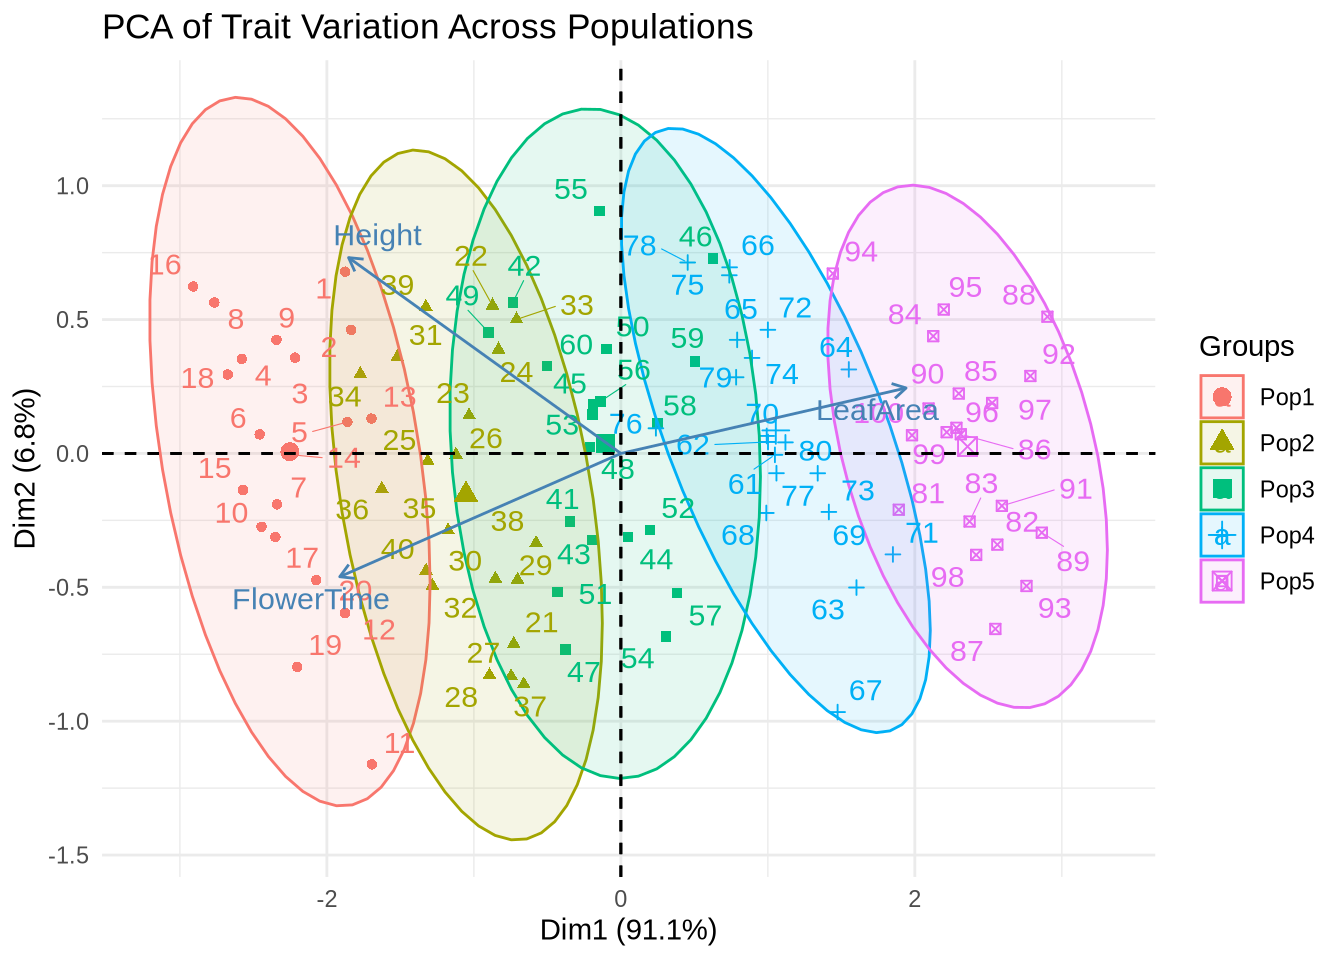
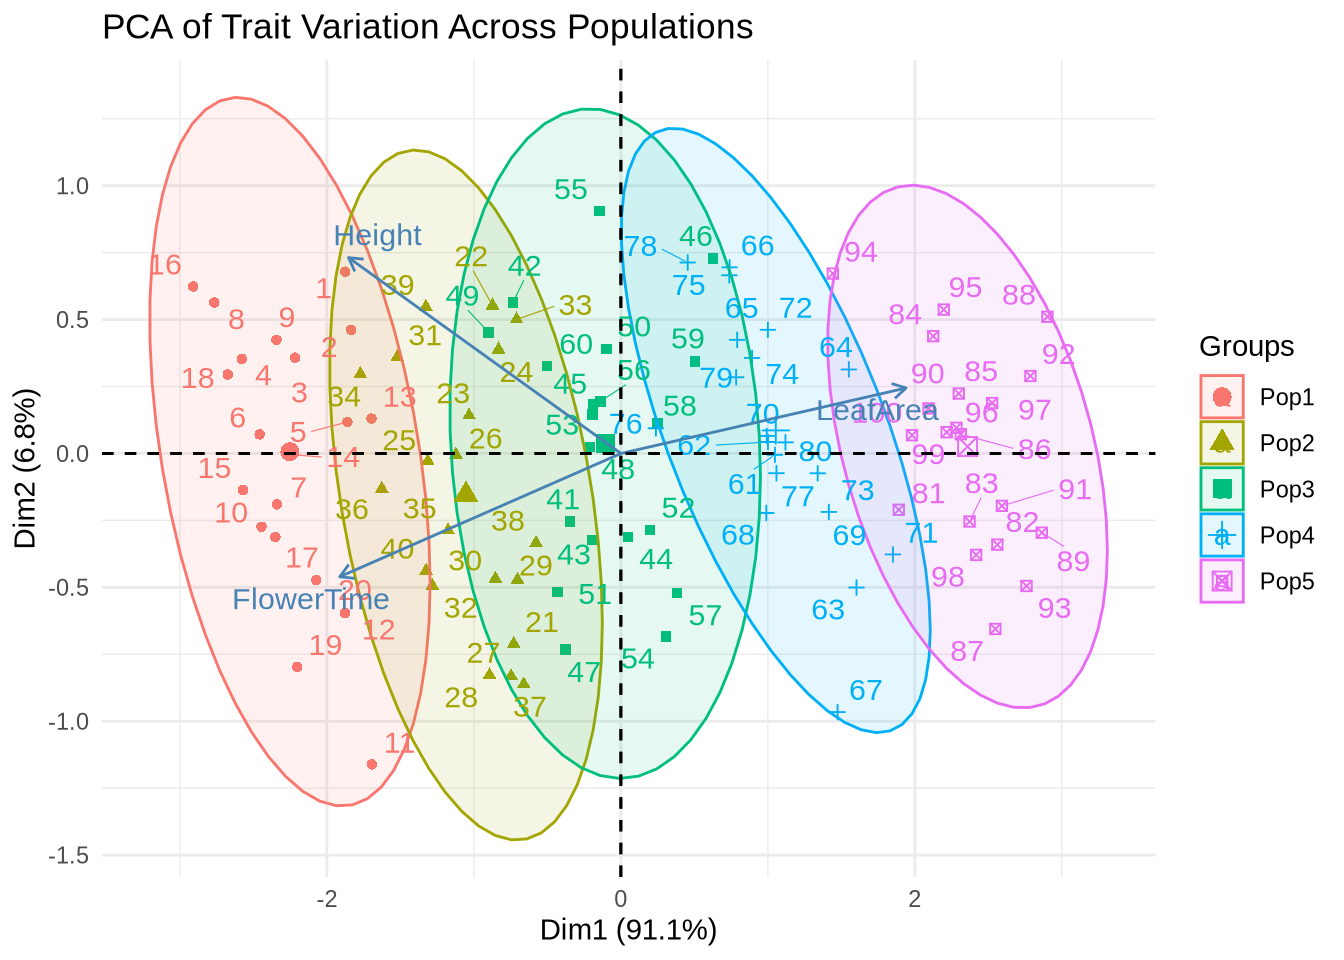
Built site for gh-pages

diff --git a/workshops/multivariate_workshop_2.html b/workshops/multivariate_workshop_2.html
@@ -332,6 +332,22 @@ gtag('config', 'G-0LPGXESG7T', { 'anonymize_ip': true});
 <span id="cb2-54"><a href="#cb2-54" aria-hidden="true" tabindex="-1"></a>dat <span class="ot">&lt;-</span> <span class="fu">data.frame</span>(<span class="at">ID =</span> <span class="dv">1</span><span class="sc">:</span><span class="dv">100</span>, <span class="at">Pop =</span> pop, coords, clim, traits)</span>
 <span id="cb2-55"><a href="#cb2-55" aria-hidden="true" tabindex="-1"></a><span class="fu">head</span>(dat)</span></code></pre></div><button title="Copy to Clipboard" class="code-copy-button"><i class="bi"></i></button></div>
 </details>
+<div class="cell-output cell-output-stdout">
+<pre><code>  ID  Pop      Lat      Lon     Temp      Prec      Elev   Season LeafArea
+1  1 Pop1 44.94395 7.928959 49.32908 -1454.350  92.92412 7.870637 62.78536
+2  2 Pop1 44.97698 8.025688 49.00425 -1456.376  74.32520 7.713426 61.94990
+3  3 Pop1 45.15587 7.975331 48.53423 -1467.179 102.89212 8.703525 61.77233
+4  4 Pop1 45.00705 7.965246 48.72362 -1460.878 100.12825 8.561629 60.93331
+5  5 Pop1 45.01293 7.904838 48.34590 -1455.018 114.70680 7.407352 62.03195
+6  6 Pop1 45.17151 7.995497 48.46386 -1455.264  84.13972 8.150625 61.50451
+  FlowerTime   Height
+1   3.564334 50.23310
+2   2.989375 49.61436
+3   5.240048 50.03555
+4   6.073493 50.51090
+5   4.557430 49.00802
+6   7.283285 49.85184</code></pre>
+</div>
 </div>
 </section>
 <section id="pca-on-trait-data" class="level2">
@@ -342,16 +358,16 @@ such as morphological traits or environmental variables.</p>
 <div class="cell">
 <details class="code-fold">
 <summary>Code</summary>
-<div class="code-copy-outer-scaffold"><div class="sourceCode cell-code" id="cb3"><pre class="sourceCode r code-with-copy"><code class="sourceCode r"><span id="cb3-1"><a href="#cb3-1" aria-hidden="true" tabindex="-1"></a>trait_pca <span class="ot">&lt;-</span> <span class="fu">prcomp</span>(dat[, <span class="fu">c</span>(<span class="st">"LeafArea"</span>, <span class="st">"FlowerTime"</span>, <span class="st">"Height"</span>)], <span class="at">scale. =</span> <span class="cn">TRUE</span>)</span>
-<span id="cb3-2"><a href="#cb3-2" aria-hidden="true" tabindex="-1"></a></span>
-<span id="cb3-3"><a href="#cb3-3" aria-hidden="true" tabindex="-1"></a><span class="fu">fviz_pca_biplot</span>(</span>
-<span id="cb3-4"><a href="#cb3-4" aria-hidden="true" tabindex="-1"></a>  trait_pca,</span>
-<span id="cb3-5"><a href="#cb3-5" aria-hidden="true" tabindex="-1"></a>  <span class="at">habillage =</span> dat<span class="sc">$</span>Pop,</span>
-<span id="cb3-6"><a href="#cb3-6" aria-hidden="true" tabindex="-1"></a>  <span class="at">addEllipses =</span> <span class="cn">TRUE</span>,</span>
-<span id="cb3-7"><a href="#cb3-7" aria-hidden="true" tabindex="-1"></a>  <span class="at">repel =</span> <span class="cn">TRUE</span>,</span>
-<span id="cb3-8"><a href="#cb3-8" aria-hidden="true" tabindex="-1"></a>  <span class="at">title =</span> <span class="st">"PCA of Trait Variation Across Populations"</span></span>
-<span id="cb3-9"><a href="#cb3-9" aria-hidden="true" tabindex="-1"></a>) <span class="sc">+</span></span>
-<span id="cb3-10"><a href="#cb3-10" aria-hidden="true" tabindex="-1"></a>  <span class="fu">theme_minimal</span>()</span></code></pre></div><button title="Copy to Clipboard" class="code-copy-button"><i class="bi"></i></button></div>
+<div class="code-copy-outer-scaffold"><div class="sourceCode cell-code" id="cb4"><pre class="sourceCode r code-with-copy"><code class="sourceCode r"><span id="cb4-1"><a href="#cb4-1" aria-hidden="true" tabindex="-1"></a>trait_pca <span class="ot">&lt;-</span> <span class="fu">prcomp</span>(dat[, <span class="fu">c</span>(<span class="st">"LeafArea"</span>, <span class="st">"FlowerTime"</span>, <span class="st">"Height"</span>)], <span class="at">scale. =</span> <span class="cn">TRUE</span>)</span>
+<span id="cb4-2"><a href="#cb4-2" aria-hidden="true" tabindex="-1"></a></span>
+<span id="cb4-3"><a href="#cb4-3" aria-hidden="true" tabindex="-1"></a><span class="fu">fviz_pca_biplot</span>(</span>
+<span id="cb4-4"><a href="#cb4-4" aria-hidden="true" tabindex="-1"></a>  trait_pca,</span>
+<span id="cb4-5"><a href="#cb4-5" aria-hidden="true" tabindex="-1"></a>  <span class="at">habillage =</span> dat<span class="sc">$</span>Pop,</span>
+<span id="cb4-6"><a href="#cb4-6" aria-hidden="true" tabindex="-1"></a>  <span class="at">addEllipses =</span> <span class="cn">TRUE</span>,</span>
+<span id="cb4-7"><a href="#cb4-7" aria-hidden="true" tabindex="-1"></a>  <span class="at">repel =</span> <span class="cn">TRUE</span>,</span>
+<span id="cb4-8"><a href="#cb4-8" aria-hidden="true" tabindex="-1"></a>  <span class="at">title =</span> <span class="st">"PCA of Trait Variation Across Populations"</span></span>
+<span id="cb4-9"><a href="#cb4-9" aria-hidden="true" tabindex="-1"></a>) <span class="sc">+</span></span>
+<span id="cb4-10"><a href="#cb4-10" aria-hidden="true" tabindex="-1"></a>  <span class="fu">theme_minimal</span>()</span></code></pre></div><button title="Copy to Clipboard" class="code-copy-button"><i class="bi"></i></button></div>
 </details>
 <div class="cell-output-display">
 <div>
@@ -385,18 +401,18 @@ such as genetic data (allele frequencies, SNPs, or F_ST matrices).</p>
 <div class="cell">
 <details class="code-fold">
 <summary>Code</summary>
-<div class="code-copy-outer-scaffold"><div class="sourceCode cell-code" id="cb4"><pre class="sourceCode r code-with-copy"><code class="sourceCode r"><span id="cb4-1"><a href="#cb4-1" aria-hidden="true" tabindex="-1"></a><span class="co"># Euclidean distance on scaled genotypes</span></span>
-<span id="cb4-2"><a href="#cb4-2" aria-hidden="true" tabindex="-1"></a>gen_dist <span class="ot">&lt;-</span> <span class="fu">dist</span>(<span class="fu">scale</span>(geno))</span>
-<span id="cb4-3"><a href="#cb4-3" aria-hidden="true" tabindex="-1"></a>pcoa_res <span class="ot">&lt;-</span> <span class="fu">cmdscale</span>(gen_dist, <span class="at">k =</span> <span class="dv">2</span>, <span class="at">eig =</span> <span class="cn">TRUE</span>)</span>
-<span id="cb4-4"><a href="#cb4-4" aria-hidden="true" tabindex="-1"></a></span>
-<span id="cb4-5"><a href="#cb4-5" aria-hidden="true" tabindex="-1"></a>pcoa_df <span class="ot">&lt;-</span> <span class="fu">as.data.frame</span>(pcoa_res<span class="sc">$</span>points)</span>
-<span id="cb4-6"><a href="#cb4-6" aria-hidden="true" tabindex="-1"></a><span class="fu">colnames</span>(pcoa_df) <span class="ot">&lt;-</span> <span class="fu">c</span>(<span class="st">"PCoA1"</span>, <span class="st">"PCoA2"</span>)</span>
-<span id="cb4-7"><a href="#cb4-7" aria-hidden="true" tabindex="-1"></a>pcoa_df<span class="sc">$</span>Pop <span class="ot">&lt;-</span> dat<span class="sc">$</span>Pop</span>
-<span id="cb4-8"><a href="#cb4-8" aria-hidden="true" tabindex="-1"></a></span>
-<span id="cb4-9"><a href="#cb4-9" aria-hidden="true" tabindex="-1"></a><span class="fu">ggplot</span>(pcoa_df, <span class="fu">aes</span>(PCoA1, PCoA2, <span class="at">color =</span> Pop)) <span class="sc">+</span></span>
-<span id="cb4-10"><a href="#cb4-10" aria-hidden="true" tabindex="-1"></a>  <span class="fu">geom_point</span>(<span class="at">size =</span> <span class="dv">3</span>) <span class="sc">+</span></span>
-<span id="cb4-11"><a href="#cb4-11" aria-hidden="true" tabindex="-1"></a>  <span class="fu">theme_minimal</span>() <span class="sc">+</span></span>
-<span id="cb4-12"><a href="#cb4-12" aria-hidden="true" tabindex="-1"></a>  <span class="fu">labs</span>(<span class="at">title =</span> <span class="st">"PCoA on Genetic Data"</span>)</span></code></pre></div><button title="Copy to Clipboard" class="code-copy-button"><i class="bi"></i></button></div>
+<div class="code-copy-outer-scaffold"><div class="sourceCode cell-code" id="cb5"><pre class="sourceCode r code-with-copy"><code class="sourceCode r"><span id="cb5-1"><a href="#cb5-1" aria-hidden="true" tabindex="-1"></a><span class="co"># Euclidean distance on scaled genotypes</span></span>
+<span id="cb5-2"><a href="#cb5-2" aria-hidden="true" tabindex="-1"></a>gen_dist <span class="ot">&lt;-</span> <span class="fu">dist</span>(<span class="fu">scale</span>(geno))</span>
+<span id="cb5-3"><a href="#cb5-3" aria-hidden="true" tabindex="-1"></a>pcoa_res <span class="ot">&lt;-</span> <span class="fu">cmdscale</span>(gen_dist, <span class="at">k =</span> <span class="dv">2</span>, <span class="at">eig =</span> <span class="cn">TRUE</span>)</span>
+<span id="cb5-4"><a href="#cb5-4" aria-hidden="true" tabindex="-1"></a></span>
+<span id="cb5-5"><a href="#cb5-5" aria-hidden="true" tabindex="-1"></a>pcoa_df <span class="ot">&lt;-</span> <span class="fu">as.data.frame</span>(pcoa_res<span class="sc">$</span>points)</span>
+<span id="cb5-6"><a href="#cb5-6" aria-hidden="true" tabindex="-1"></a><span class="fu">colnames</span>(pcoa_df) <span class="ot">&lt;-</span> <span class="fu">c</span>(<span class="st">"PCoA1"</span>, <span class="st">"PCoA2"</span>)</span>
+<span id="cb5-7"><a href="#cb5-7" aria-hidden="true" tabindex="-1"></a>pcoa_df<span class="sc">$</span>Pop <span class="ot">&lt;-</span> dat<span class="sc">$</span>Pop</span>
+<span id="cb5-8"><a href="#cb5-8" aria-hidden="true" tabindex="-1"></a></span>
+<span id="cb5-9"><a href="#cb5-9" aria-hidden="true" tabindex="-1"></a><span class="fu">ggplot</span>(pcoa_df, <span class="fu">aes</span>(PCoA1, PCoA2, <span class="at">color =</span> Pop)) <span class="sc">+</span></span>
+<span id="cb5-10"><a href="#cb5-10" aria-hidden="true" tabindex="-1"></a>  <span class="fu">geom_point</span>(<span class="at">size =</span> <span class="dv">3</span>) <span class="sc">+</span></span>
+<span id="cb5-11"><a href="#cb5-11" aria-hidden="true" tabindex="-1"></a>  <span class="fu">theme_minimal</span>() <span class="sc">+</span></span>
+<span id="cb5-12"><a href="#cb5-12" aria-hidden="true" tabindex="-1"></a>  <span class="fu">labs</span>(<span class="at">title =</span> <span class="st">"PCoA on Genetic Data"</span>)</span></code></pre></div><button title="Copy to Clipboard" class="code-copy-button"><i class="bi"></i></button></div>
 </details>
 <div class="cell-output-display">
 <div>
@@ -424,8 +440,8 @@ such as genetic data (allele frequencies, SNPs, or F_ST matrices).</p>
 <div class="cell">
 <details class="code-fold">
 <summary>Code</summary>
-<div class="code-copy-outer-scaffold"><div class="sourceCode cell-code" id="cb5"><pre class="sourceCode r code-with-copy"><code class="sourceCode r"><span id="cb5-1"><a href="#cb5-1" aria-hidden="true" tabindex="-1"></a>dapc_res <span class="ot">&lt;-</span> <span class="fu">dapc</span>(geno, dat<span class="sc">$</span>Pop, <span class="at">n.pca =</span> <span class="dv">20</span>, <span class="at">n.da =</span> <span class="dv">4</span>)</span>
-<span id="cb5-2"><a href="#cb5-2" aria-hidden="true" tabindex="-1"></a><span class="fu">scatter</span>(dapc_res, <span class="at">scree.da =</span> <span class="cn">TRUE</span>, <span class="at">bg =</span> <span class="st">"white"</span>, <span class="at">pch =</span> <span class="dv">20</span>)</span></code></pre></div><button title="Copy to Clipboard" class="code-copy-button"><i class="bi"></i></button></div>
+<div class="code-copy-outer-scaffold"><div class="sourceCode cell-code" id="cb6"><pre class="sourceCode r code-with-copy"><code class="sourceCode r"><span id="cb6-1"><a href="#cb6-1" aria-hidden="true" tabindex="-1"></a>dapc_res <span class="ot">&lt;-</span> <span class="fu">dapc</span>(geno, dat<span class="sc">$</span>Pop, <span class="at">n.pca =</span> <span class="dv">20</span>, <span class="at">n.da =</span> <span class="dv">4</span>)</span>
+<span id="cb6-2"><a href="#cb6-2" aria-hidden="true" tabindex="-1"></a><span class="fu">scatter</span>(dapc_res, <span class="at">scree.da =</span> <span class="cn">TRUE</span>, <span class="at">bg =</span> <span class="st">"white"</span>, <span class="at">pch =</span> <span class="dv">20</span>)</span></code></pre></div><button title="Copy to Clipboard" class="code-copy-button"><i class="bi"></i></button></div>
 </details>
 <div class="cell-output-display">
 <div>
@@ -458,9 +474,70 @@ such as genetic data (allele frequencies, SNPs, or F_ST matrices).</p>
 <div class="cell">
 <details class="code-fold">
 <summary>Code</summary>
-<div class="code-copy-outer-scaffold"><div class="sourceCode cell-code" id="cb6"><pre class="sourceCode r code-with-copy"><code class="sourceCode r"><span id="cb6-1"><a href="#cb6-1" aria-hidden="true" tabindex="-1"></a>rda_res <span class="ot">&lt;-</span> <span class="fu">rda</span>(<span class="fu">scale</span>(geno) <span class="sc">~</span> Temp <span class="sc">+</span> Prec <span class="sc">+</span> Elev <span class="sc">+</span> Season, <span class="at">data =</span> dat)</span>
-<span id="cb6-2"><a href="#cb6-2" aria-hidden="true" tabindex="-1"></a><span class="fu">summary</span>(rda_res)</span>
-<span id="cb6-3"><a href="#cb6-3" aria-hidden="true" tabindex="-1"></a><span class="fu">plot</span>(rda_res, <span class="at">scaling =</span> <span class="dv">2</span>, <span class="at">main =</span> <span class="st">"RDA: Genetic Variation ~ Climate"</span>)</span></code></pre></div><button title="Copy to Clipboard" class="code-copy-button"><i class="bi"></i></button></div>
+<div class="code-copy-outer-scaffold"><div class="sourceCode cell-code" id="cb7"><pre class="sourceCode r code-with-copy"><code class="sourceCode r"><span id="cb7-1"><a href="#cb7-1" aria-hidden="true" tabindex="-1"></a>rda_res <span class="ot">&lt;-</span> <span class="fu">rda</span>(<span class="fu">scale</span>(geno) <span class="sc">~</span> Temp <span class="sc">+</span> Prec <span class="sc">+</span> Elev <span class="sc">+</span> Season, <span class="at">data =</span> dat)</span>
+<span id="cb7-2"><a href="#cb7-2" aria-hidden="true" tabindex="-1"></a><span class="fu">summary</span>(rda_res)</span></code></pre></div><button title="Copy to Clipboard" class="code-copy-button"><i class="bi"></i></button></div>
+</details>
+<div class="cell-output cell-output-stdout">
+<pre><code>
+Call:
+rda(formula = scale(geno) ~ Temp + Prec + Elev + Season, data = dat) 
+
+Partitioning of variance:
+              Inertia Proportion
+Total           50.00     1.0000
+Constrained     24.98     0.4996
+Unconstrained   25.02     0.5004
+
+Eigenvalues, and their contribution to the variance 
+
+Importance of components:
+                         RDA1     RDA2     RDA3     RDA4     PC1     PC2
+Eigenvalue            24.1902 0.353892 0.273640 0.163182 1.43970 1.36617
+Proportion Explained   0.4838 0.007078 0.005473 0.003264 0.02879 0.02732
+Cumulative Proportion  0.4838 0.490882 0.496355 0.499618 0.52841 0.55574
+                          PC3     PC4     PC5     PC6     PC7     PC8     PC9
+Eigenvalue            1.32264 1.29197 1.16598 1.08045 1.02384 0.96713 0.90273
+Proportion Explained  0.02645 0.02584 0.02332 0.02161 0.02048 0.01934 0.01805
+Cumulative Proportion 0.58219 0.60803 0.63135 0.65296 0.67343 0.69278 0.71083
+                        PC10    PC11    PC12    PC13    PC14    PC15    PC16
+Eigenvalue            0.8752 0.80890 0.78919 0.77270 0.70259 0.68472 0.67310
+Proportion Explained  0.0175 0.01618 0.01578 0.01545 0.01405 0.01369 0.01346
+Cumulative Proportion 0.7283 0.74451 0.76030 0.77575 0.78980 0.80350 0.81696
+                         PC17    PC18    PC19    PC20    PC21     PC22     PC23
+Eigenvalue            0.59371 0.58568 0.55313 0.54661 0.52614 0.477618 0.461842
+Proportion Explained  0.01187 0.01171 0.01106 0.01093 0.01052 0.009552 0.009237
+Cumulative Proportion 0.82883 0.84055 0.85161 0.86254 0.87306 0.882616 0.891853
+                          PC24     PC25     PC26     PC27     PC28     PC29
+Eigenvalue            0.449154 0.402901 0.389152 0.368931 0.350728 0.315360
+Proportion Explained  0.008983 0.008058 0.007783 0.007379 0.007015 0.006307
+Cumulative Proportion 0.900836 0.908894 0.916677 0.924055 0.931070 0.937377
+                          PC30     PC31     PC32     PC33     PC34     PC35
+Eigenvalue            0.285034 0.272317 0.249898 0.243261 0.235318 0.207397
+Proportion Explained  0.005701 0.005446 0.004998 0.004865 0.004706 0.004148
+Cumulative Proportion 0.943078 0.948524 0.953522 0.958387 0.963094 0.967242
+                         PC36     PC37     PC38     PC39    PC40     PC41
+Eigenvalue            0.19051 0.184759 0.168346 0.156458 0.14149 0.125222
+Proportion Explained  0.00381 0.003695 0.003367 0.003129 0.00283 0.002504
+Cumulative Proportion 0.97105 0.974747 0.978114 0.981243 0.98407 0.986577
+                          PC42     PC43     PC44     PC45     PC46     PC47
+Eigenvalue            0.119716 0.107752 0.094117 0.087432 0.076919 0.057455
+Proportion Explained  0.002394 0.002155 0.001882 0.001749 0.001538 0.001149
+Cumulative Proportion 0.988972 0.991127 0.993009 0.994758 0.996296 0.997445
+                         PC48      PC49      PC50
+Eigenvalue            0.05049 0.0429336 0.0343095
+Proportion Explained  0.00101 0.0008587 0.0006862
+Cumulative Proportion 0.99846 0.9993138 1.0000000
+
+Accumulated constrained eigenvalues
+Importance of components:
+                         RDA1    RDA2    RDA3     RDA4
+Eigenvalue            24.1902 0.35389 0.27364 0.163182
+Proportion Explained   0.9683 0.01417 0.01095 0.006532
+Cumulative Proportion  0.9683 0.98251 0.99347 1.000000</code></pre>
+</div>
+<details class="code-fold">
+<summary>Code</summary>
+<div class="code-copy-outer-scaffold"><div class="sourceCode cell-code" id="cb9"><pre class="sourceCode r code-with-copy"><code class="sourceCode r"><span id="cb9-1"><a href="#cb9-1" aria-hidden="true" tabindex="-1"></a><span class="fu">plot</span>(rda_res, <span class="at">scaling =</span> <span class="dv">2</span>, <span class="at">main =</span> <span class="st">"RDA: Genetic Variation ~ Climate"</span>)</span></code></pre></div><button title="Copy to Clipboard" class="code-copy-button"><i class="bi"></i></button></div>
 </details>
 <div class="cell-output-display">
 <div>
@@ -471,8 +548,20 @@ such as genetic data (allele frequencies, SNPs, or F_ST matrices).</p>
 </div>
 <details class="code-fold">
 <summary>Code</summary>
-<div class="code-copy-outer-scaffold"><div class="sourceCode cell-code" id="cb7"><pre class="sourceCode r code-with-copy"><code class="sourceCode r"><span id="cb7-1"><a href="#cb7-1" aria-hidden="true" tabindex="-1"></a><span class="fu">anova</span>(rda_res)</span></code></pre></div><button title="Copy to Clipboard" class="code-copy-button"><i class="bi"></i></button></div>
+<div class="code-copy-outer-scaffold"><div class="sourceCode cell-code" id="cb10"><pre class="sourceCode r code-with-copy"><code class="sourceCode r"><span id="cb10-1"><a href="#cb10-1" aria-hidden="true" tabindex="-1"></a><span class="fu">anova</span>(rda_res)</span></code></pre></div><button title="Copy to Clipboard" class="code-copy-button"><i class="bi"></i></button></div>
 </details>
+<div class="cell-output cell-output-stdout">
+<pre><code>Permutation test for rda under reduced model
+Permutation: free
+Number of permutations: 999
+
+Model: rda(formula = scale(geno) ~ Temp + Prec + Elev + Season, data = dat)
+         Df Variance      F Pr(&gt;F)    
+Model     4   24.981 23.714  0.001 ***
+Residual 95   25.019                  
+---
+Signif. codes:  0 '***' 0.001 '**' 0.01 '*' 0.05 '.' 0.1 ' ' 1</code></pre>
+</div>
 </div>
 <p>🧭 <strong>Interpretation:</strong></p>
 <ul>
@@ -494,9 +583,24 @@ such as genetic data (allele frequencies, SNPs, or F_ST matrices).</p>
 <div class="cell">
 <details class="code-fold">
 <summary>Code</summary>
-<div class="code-copy-outer-scaffold"><div class="sourceCode cell-code" id="cb8"><pre class="sourceCode r code-with-copy"><code class="sourceCode r"><span id="cb8-1"><a href="#cb8-1" aria-hidden="true" tabindex="-1"></a>rda_trait <span class="ot">&lt;-</span> <span class="fu">rda</span>(traits <span class="sc">~</span> Temp <span class="sc">+</span> Prec <span class="sc">+</span> Elev <span class="sc">+</span> Season, <span class="at">data =</span> dat)</span>
-<span id="cb8-2"><a href="#cb8-2" aria-hidden="true" tabindex="-1"></a><span class="fu">anova</span>(rda_trait)</span>
-<span id="cb8-3"><a href="#cb8-3" aria-hidden="true" tabindex="-1"></a><span class="fu">plot</span>(rda_trait, <span class="at">scaling =</span> <span class="dv">2</span>, <span class="at">main =</span> <span class="st">"RDA: Traits ~ Climate"</span>)</span></code></pre></div><button title="Copy to Clipboard" class="code-copy-button"><i class="bi"></i></button></div>
+<div class="code-copy-outer-scaffold"><div class="sourceCode cell-code" id="cb12"><pre class="sourceCode r code-with-copy"><code class="sourceCode r"><span id="cb12-1"><a href="#cb12-1" aria-hidden="true" tabindex="-1"></a>rda_trait <span class="ot">&lt;-</span> <span class="fu">rda</span>(traits <span class="sc">~</span> Temp <span class="sc">+</span> Prec <span class="sc">+</span> Elev <span class="sc">+</span> Season, <span class="at">data =</span> dat)</span>
+<span id="cb12-2"><a href="#cb12-2" aria-hidden="true" tabindex="-1"></a><span class="fu">anova</span>(rda_trait)</span></code></pre></div><button title="Copy to Clipboard" class="code-copy-button"><i class="bi"></i></button></div>
+</details>
+<div class="cell-output cell-output-stdout">
+<pre><code>Permutation test for rda under reduced model
+Permutation: free
+Number of permutations: 999
+
+Model: rda(formula = traits ~ Temp + Prec + Elev + Season, data = dat)
+         Df Variance      F Pr(&gt;F)    
+Model     4   38.447 245.21  0.001 ***
+Residual 95    3.724                  
+---
+Signif. codes:  0 '***' 0.001 '**' 0.01 '*' 0.05 '.' 0.1 ' ' 1</code></pre>
+</div>
+<details class="code-fold">
+<summary>Code</summary>
+<div class="code-copy-outer-scaffold"><div class="sourceCode cell-code" id="cb14"><pre class="sourceCode r code-with-copy"><code class="sourceCode r"><span id="cb14-1"><a href="#cb14-1" aria-hidden="true" tabindex="-1"></a><span class="fu">plot</span>(rda_trait, <span class="at">scaling =</span> <span class="dv">2</span>, <span class="at">main =</span> <span class="st">"RDA: Traits ~ Climate"</span>)</span></code></pre></div><button title="Copy to Clipboard" class="code-copy-button"><i class="bi"></i></button></div>
 </details>
 <div class="cell-output-display">
 <div>
@@ -523,9 +627,14 @@ such as genetic data (allele frequencies, SNPs, or F_ST matrices).</p>
 <div class="cell">
 <details class="code-fold">
 <summary>Code</summary>
-<div class="code-copy-outer-scaffold"><div class="sourceCode cell-code" id="cb9"><pre class="sourceCode r code-with-copy"><code class="sourceCode r"><span id="cb9-1"><a href="#cb9-1" aria-hidden="true" tabindex="-1"></a>trait_scores <span class="ot">&lt;-</span> <span class="fu">as.data.frame</span>(trait_pca<span class="sc">$</span>x[, <span class="dv">1</span><span class="sc">:</span><span class="dv">2</span>])</span>
-<span id="cb9-2"><a href="#cb9-2" aria-hidden="true" tabindex="-1"></a><span class="fu">cor</span>(trait_scores, dat[, <span class="fu">c</span>(<span class="st">"Temp"</span>, <span class="st">"Prec"</span>, <span class="st">"Elev"</span>, <span class="st">"Season"</span>)])</span></code></pre></div><button title="Copy to Clipboard" class="code-copy-button"><i class="bi"></i></button></div>
+<div class="code-copy-outer-scaffold"><div class="sourceCode cell-code" id="cb15"><pre class="sourceCode r code-with-copy"><code class="sourceCode r"><span id="cb15-1"><a href="#cb15-1" aria-hidden="true" tabindex="-1"></a>trait_scores <span class="ot">&lt;-</span> <span class="fu">as.data.frame</span>(trait_pca<span class="sc">$</span>x[, <span class="dv">1</span><span class="sc">:</span><span class="dv">2</span>])</span>
+<span id="cb15-2"><a href="#cb15-2" aria-hidden="true" tabindex="-1"></a><span class="fu">cor</span>(trait_scores, dat[, <span class="fu">c</span>(<span class="st">"Temp"</span>, <span class="st">"Prec"</span>, <span class="st">"Elev"</span>, <span class="st">"Season"</span>)])</span></code></pre></div><button title="Copy to Clipboard" class="code-copy-button"><i class="bi"></i></button></div>
 </details>
+<div class="cell-output cell-output-stdout">
+<pre><code>         Temp       Prec       Elev     Season
+PC1 0.9557092 -0.9648432 0.97736718 0.84289173
+PC2 0.1757250 -0.1070145 0.02305903 0.05024031</code></pre>
+</div>
 </div>
 <p>🌡 <strong>Interpretation:</strong></p>
 <ul>
